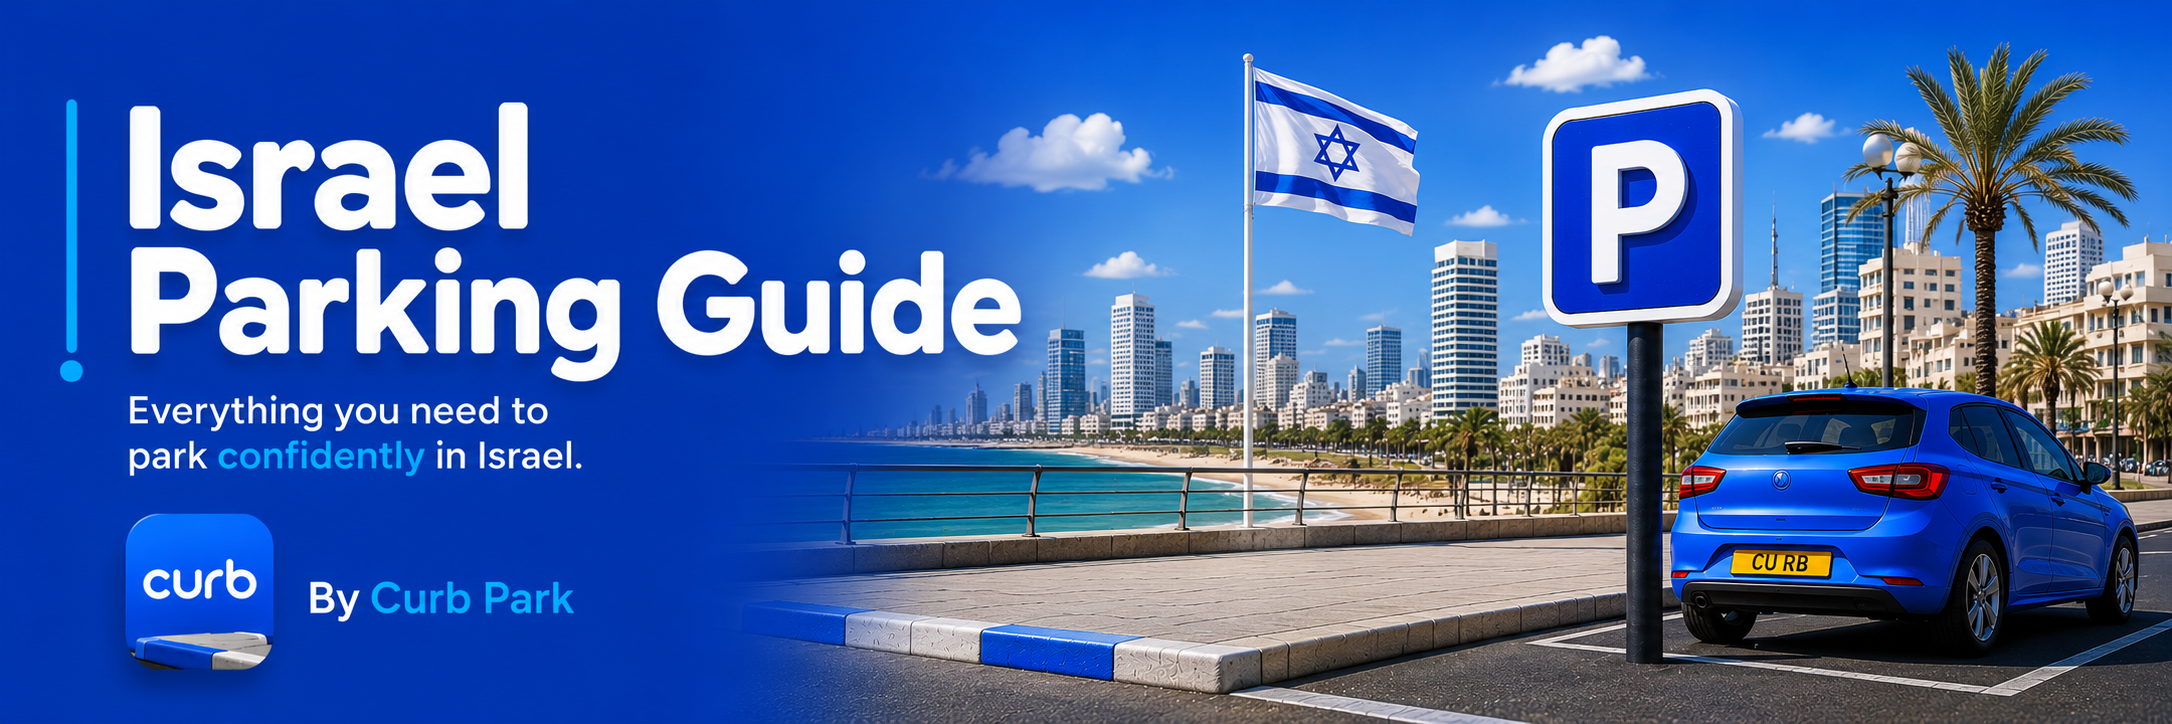
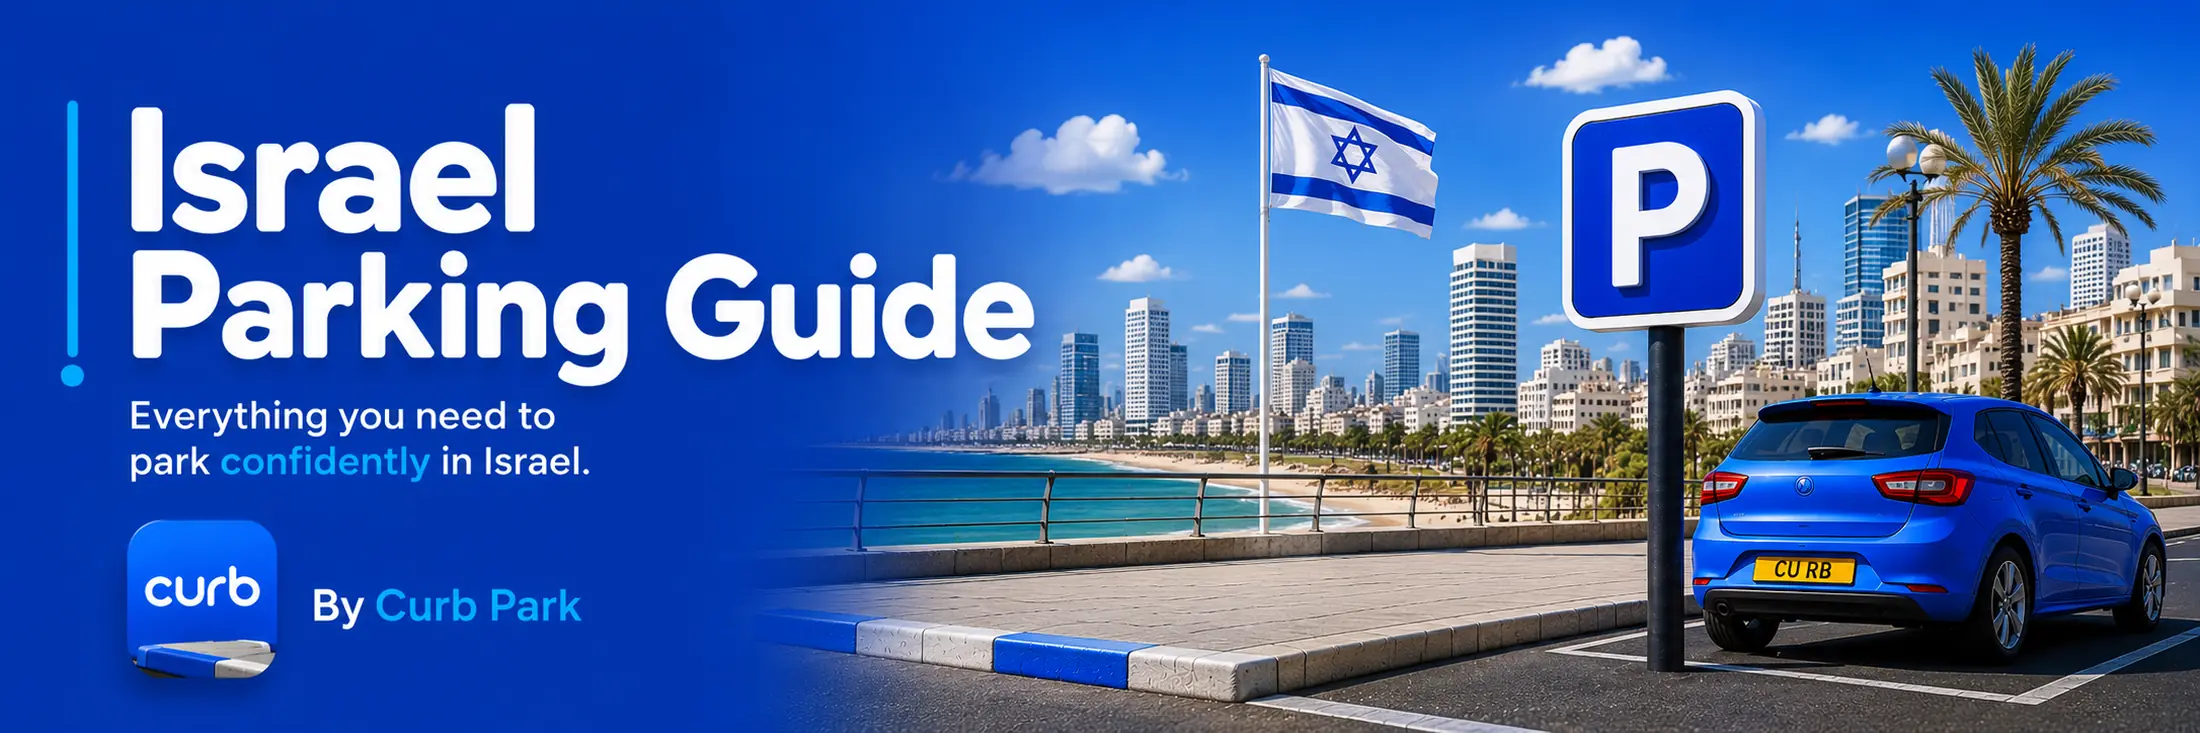
Fix critical SEO and UX issues: compress oversized image, fix broken links, add OG tags and schema
Phase 1 fixes:
- Compress Israel guide hero image from 1.98MB → 147KB (93% reduction) for Core Web Vitals
- Remove broken PDF download CTA from Israel guide
- Fix dead coverage.html internal link → index.html#coverage

Phase 2 fixes:
- Add Open Graph meta tags to all pages for social sharing
- Add canonical URLs to homepage and privacy page
- Add og:image tags to all blog pages
- Fix broken src="" attributes on homepage blog preview cards
- Add Organization + SoftwareApplication schema markup to homepage

diff --git a/index.html b/index.html
@@ -6,12 +6,73 @@
   <title>Curb — Scan & Park</title>
   <meta name="description" content="Curb helps you scan parking signs and understand if you can park instantly." />
   <meta name="theme-color" content="#1A35E6" />
+  <meta property="og:type" content="website" />
+  <meta property="og:title" content="Curb — Scan Parking Signs Instantly" />
+  <meta property="og:description" content="Curb helps you scan parking signs and understand if you can park instantly. Available on iOS." />
+  <meta property="og:url" content="https://curb-park.app/" />
+  <meta property="og:image" content="https://curb-park.app/images/hero-phone.webp" />
+  <meta property="og:image:alt" content="Curb app scanning a parking sign" />
+  <meta name="twitter:card" content="summary_large_image" />
+  <meta name="twitter:title" content="Curb — Scan Parking Signs Instantly" />
+  <meta name="twitter:description" content="Curb helps you scan parking signs and understand if you can park instantly." />
+  <meta name="twitter:image" content="https://curb-park.app/images/hero-phone.webp" />
+  <link rel="canonical" href="https://curb-park.app/" />
   <link rel="stylesheet" href="css/leaflet.css"/>
   <link rel="stylesheet" href="css/style.css" />
   <link rel="icon" type="image/x-icon" href="/favicon.ico">
   <link rel="preload" as="image" href="images/hero-phone.webp"/>
   <link rel="preconnect" href="https://cdn.jsdelivr.net">
   <link rel="preconnect" href="https://unpkg.com">
+  <script type="application/ld+json">
+  {
+    "@context": "https://schema.org",
+    "@graph": [
+      {
+        "@type": "Organization",
+        "@id": "https://curb-park.app/#organization",
+        "name": "Curb",
+        "url": "https://curb-park.app/",
+        "email": "[email redacted]",
+        "founder": {
+          "@type": "Person",
+          "name": "Ido Oriane"
+        },
+        "sameAs": []
+      },
+      {
+        "@type": "SoftwareApplication",
+        "name": "Curb",
+        "url": "https://curb-park.app/",
+        "applicationCategory": "NavigationApplication",
+        "operatingSystem": "iOS",
+        "description": "Scan parking signs and instantly understand if you can park. Curb turns confusing parking signs into clear answers.",
+        "publisher": { "@id": "https://curb-park.app/#organization" },
+        "offers": [
+          {
+            "@type": "Offer",
+            "name": "Free",
+            "price": "0",
+            "priceCurrency": "USD"
+          },
+          {
+            "@type": "Offer",
+            "name": "Pro Monthly",
+            "price": "1.99",
+            "priceCurrency": "USD",
+            "billingDuration": "P1M"
+          },
+          {
+            "@type": "Offer",
+            "name": "Pro Annual",
+            "price": "9.99",
+            "priceCurrency": "USD",
+            "billingDuration": "P1Y"
+          }
+        ]
+      }
+    ]
+  }
+  </script>
 </head>
 <body>
   <header class="site-header">
@@ -227,8 +288,7 @@
       <div class="blog-grid">
         <a class="blog-card reveal" href="blog/announcement-curb-launch.html">
           <div class="image-placeholder blog-card-image" aria-hidden="true">
-            <img src="" loading="lazy" alt="">
-            <span>images/blog/announcement-launch.webp</span>
+            <img src="images/blog/announcement-curb-launch-hero.svg" loading="lazy" alt="Curb app launch announcement">
           </div>
           <div class="blog-card-body">
             <span class="post-tag tag-announcement">Announcement</span>
@@ -245,8 +305,7 @@
 
         <a class="blog-card reveal" href="blog/article-parking-mistakes.html">
           <div class="image-placeholder blog-card-image" aria-hidden="true">
-            <img src="" loading="lazy" alt="">
-            <span>images/blog/article-parking-mistakes.webp</span>
+            <img src="images/blog/article-parking-mistakes-hero.svg" loading="lazy" alt="5 parking mistakes to avoid">
           </div>
           <div class="blog-card-body">
             <span class="post-tag tag-article">Article</span>

diff --git a/blog/parking-guide-israel.html b/blog/parking-guide-israel.html
@@ -16,6 +16,9 @@
   <meta property="og:description" content="Curb colors, payment apps, Shabbat rules, and permit zones — everything you need to park confidently anywhere in Israel." />
   <meta property="og:url" content="https://curb-park.app/blog/parking-guide-israel.html" />
   <meta name="twitter:card" content="summary_large_image" />
+  <meta property="og:image" content="https://curb-park.app/images/blog/parking-guide-israel-hero.webp" />
+  <meta property="og:image:alt" content="Parking guide for Israel - curb colors and rules" />
+  <meta name="twitter:image" content="https://curb-park.app/images/blog/parking-guide-israel-hero.webp" />
 
   <!-- Structured data -->
   <script type="application/ld+json">
@@ -95,12 +98,6 @@
           <span>9 min read</span>
           <span>·</span>
           <span>Updated for 2026</span>
-        </div>
-        <div class="pdf-download">
-          <a class="button button-secondary" href="../downloads/curb-parking-guide-israel.pdf" download>
-            <svg width="18" height="18" viewBox="0 0 24 24" fill="none" aria-hidden="true"><path d="M12 3v12m0 0l-4-4m4 4l4-4M5 21h14" stroke="currentColor" stroke-width="2.2" stroke-linecap="round" stroke-linejoin="round"/></svg>
-            Download PDF Guide
-          </a>
         </div>
       </header>
 

diff --git a/blog/article-parking-mistakes.html b/blog/article-parking-mistakes.html
@@ -16,6 +16,9 @@
   <meta property="og:description" content="Over 40% of drivers get parking tickets from sign confusion. Discover the 5 most common parking sign mistakes and how the Curb app instantly tells you if parking is allowed." />
   <meta property="og:url" content="https://curb-park.app/blog/article-parking-mistakes.html" />
   <meta name="twitter:card" content="summary_large_image" />
+  <meta property="og:image" content="https://curb-park.app/images/blog/article-parking-mistakes-hero.svg" />
+  <meta property="og:image:alt" content="5 parking mistakes to avoid" />
+  <meta name="twitter:image" content="https://curb-park.app/images/blog/article-parking-mistakes-hero.svg" />
 
   <!-- Structured data -->
   <script type="application/ld+json">
@@ -167,7 +170,7 @@
         <p class="reveal">Curb uses advanced image recognition to read parking signs and understand local parking regulations. However, accuracy depends on sign visibility and clarity. Always confirm Curb's answer by reading the actual sign yourself—Curb is a tool to help you understand signs more confidently, not a legal guarantee.</p>
 
         <h3 class="reveal">Does Curb work everywhere (globally)?</h3>
-        <p class="reveal">Yes! Curb supports parking signs worldwide. Coverage continues to expand regularly. Check our <a href="../coverage.html" style="color: #1A35E6; text-decoration: underline;">coverage map</a> to see if your city is supported. Even if your city isn't yet in our database, you can still take a photo—Curb will let you know if it can analyze the sign.</p>
+        <p class="reveal">Yes! Curb supports parking signs worldwide. Coverage continues to expand regularly. Check our <a href="../index.html#coverage" style="color: #1A35E6; text-decoration: underline;">coverage map</a> to see if your city is supported. Even if your city isn't yet in our database, you can still take a photo—Curb will let you know if it can analyze the sign.</p>
 
         <h3 class="reveal">Is Curb free?</h3>
         <p class="reveal">Curb offers a free plan: <strong>5 scans per month</strong> at no cost. This is perfect for occasional parkers who need clarity on a tricky spot.</p>

diff --git a/privacy.html b/privacy.html
@@ -6,6 +6,10 @@
   <title>Privacy Policy — Curb</title>
   <meta name="description" content="Privacy Policy for Curb." />
   <meta name="theme-color" content="#1A35E6" />
+  <meta property="og:type" content="website" />
+  <meta property="og:title" content="Privacy Policy — Curb" />
+  <meta property="og:url" content="https://curb-park.app/privacy.html" />
+  <link rel="canonical" href="https://curb-park.app/privacy.html" />
   <link rel="stylesheet" href="css/style.css" />
 </head>
 <body>

diff --git a/blog/announcement-curb-launch.html b/blog/announcement-curb-launch.html
@@ -16,6 +16,9 @@
   <meta property="og:description" content="We're getting ready to launch Curb's scan-and-park experience. Here's what's coming, and how to get early access." />
   <meta property="og:url" content="https://curb-park.app/blog/announcement-curb-launch.html" />
   <meta name="twitter:card" content="summary_large_image" />
+  <meta property="og:image" content="https://curb-park.app/images/blog/announcement-curb-launch-hero.svg" />
+  <meta property="og:image:alt" content="Curb app launch announcement" />
+  <meta name="twitter:image" content="https://curb-park.app/images/blog/announcement-curb-launch-hero.svg" />
 
   <!-- Structured data -->
   <script type="application/ld+json">

diff --git a/blog/index.html b/blog/index.html
@@ -16,6 +16,9 @@
   <meta property="og:description" content="Country-by-country parking guides, product announcements, and practical tips from Curb." />
   <meta property="og:url" content="https://curb-park.app/blog/" />
   <meta name="twitter:card" content="summary_large_image" />
+  <meta property="og:image" content="https://curb-park.app/images/hero-phone.webp" />
+  <meta property="og:image:alt" content="Curb blog - parking guides and tips" />
+  <meta name="twitter:image" content="https://curb-park.app/images/hero-phone.webp" />
 
   <!-- Structured data -->
   <script type="application/ld+json">